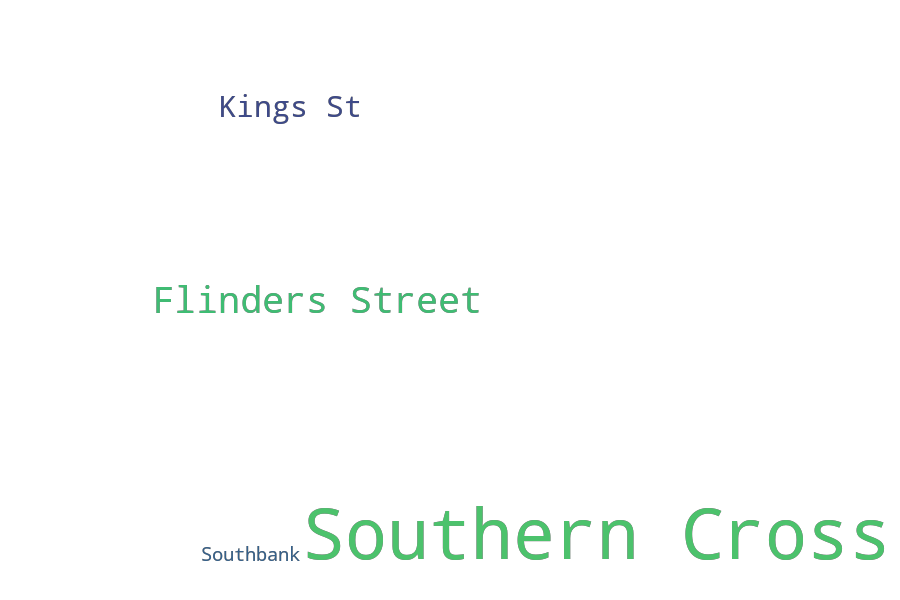
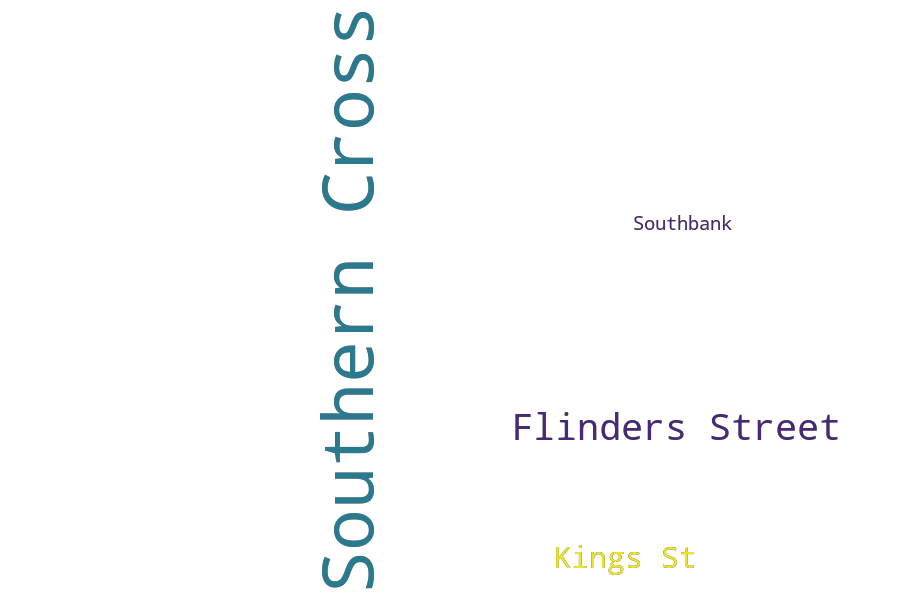
maps

diff --git a/flask_adminlte/templates/adminlte/base.html b/flask_adminlte/templates/adminlte/base.html
@@ -42,46 +42,7 @@
       }
     </style>
 
-       <script >
-      var map;
-      function initMap() {
-        map = new google.maps.Map(document.getElementById('map'), {
-          zoom: 2,
-          center: {lat: -33.865427, lng: 151.196123},
-          mapTypeId: 'terrain'
-        });
 
-        // Create a <script> tag and set the USGS URL as the source.
-        var script = document.createElement('script');
-
-        // This example uses a local copy of the GeoJSON stored at
-        // http://earthquake.usgs.gov/earthquakes/feed/v1.0/summary/2.5_week.geojsonp
-        script.src = 'https://developers.google.com/maps/documentation/javascript/examples/json/earthquake_GeoJSONP.js';
-        document.getElementsByTagName('head')[0].appendChild(script);
-
-        map.data.setStyle(function(feature) {
-          var magnitude = feature.getProperty('mag');
-          return {
-            icon: getCircle(magnitude)
-          };
-        });
-      }
-
-      function getCircle(magnitude) {
-        return {
-          path: google.maps.SymbolPath.CIRCLE,
-          fillColor: 'red',
-          fillOpacity: .2,
-          scale: Math.pow(2, magnitude) / 2,
-          strokeColor: 'white',
-          strokeWeight: .5
-        };
-      }
-
-      function eqfeed_callback(results) {
-        map.data.addGeoJson(results);
-      }
-    </script>
   </head>
 
     <body class="{% block skin %}skin-blue{% endblock %} sidebar-mini">
@@ -187,7 +148,6 @@
       </script>
       <!-- Local application JS -->
       <script src="{{ adminlte_find_resource('js/app.js', cdn='local', use_minified=False) }}"></script>
-        <script src="https://maps.googleapis.com/maps/api/js?key=AIzaSyC91q4j-UaFY-TA0Y9gSe2EdLfUbOgUR9w&libraries=visualization"></script>
 
   {%- endblock scripts %}
 

diff --git a/templates/index.html b/templates/index.html
@@ -75,11 +75,56 @@
     <h1>Word Map</h1>
     <img src="../static/img/wordcloud.png">
 
+     <h2>Google Map</h2>
+    <div id="map" style="height:400px;"></div>
 
 
-    <h2>Google Map</h2>
-    <div id="map"></div>
+      <script >
+      var map;
+      function initMap() {
+        console.log("hello");
+        map = new google.maps.Map(document.getElementById('map'), {
+          zoom: 2,
+          center: {lat: -33.865427, lng: 151.196123},
+          mapTypeId: 'terrain'
+        });
 
+        // Create a <script> tag and set the USGS URL as the source.
+        var script = document.createElement('script');
+
+        // This example uses a local copy of the GeoJSON stored at
+        // http://earthquake.usgs.gov/earthquakes/feed/v1.0/summary/2.5_week.geojsonp
+        script.src = 'https://developers.google.com/maps/documentation/javascript/examples/json/earthquake_GeoJSONP.js';
+        document.getElementsByTagName('head')[0].appendChild(script);
+
+        map.data.setStyle(function(feature) {
+          var magnitude = feature.getProperty('mag');
+          return {
+            icon: getCircle(magnitude)
+          };
+        });
+      }
+
+      function getCircle(magnitude) {
+      console.log("YEp");
+        return {
+          path: google.maps.SymbolPath.CIRCLE,
+          fillColor: 'red',
+          fillOpacity: .2,
+          scale: Math.pow(2, magnitude) / 2,
+          strokeColor: 'white',
+          strokeWeight: .5
+        };
+      }
+
+      function eqfeed_callback(results) {
+        map.data.addGeoJson(results);
+      }
+    </script>
+
+<script async defer
+    src="https://maps.googleapis.com/maps/api/js?key=AIzaSyC91q4j-UaFY-TA0Y9gSe2EdLfUbOgUR9w&callback=initMap">
+    </script>
 
 
 {%- endblock content %}

diff --git a/main.py b/main.py
@@ -33,7 +33,7 @@ def index():
     most_pop_month = query.most_popular_month()
     most_pop_time = query.most_popular_time()
 
-    """
+
     # ----------------------
     #   Word Cloud
     # --------------------*/
@@ -49,7 +49,7 @@ def index():
 
     # save to image file
     wordcloud.to_file('static/img/wordcloud.png')
-    """
+
 
     return render_template('index.html', most_pop_overall=most_pop_overall, most_pop_day=most_pop_day,
                            most_pop_month=most_pop_month, most_pop_time=most_pop_time)
